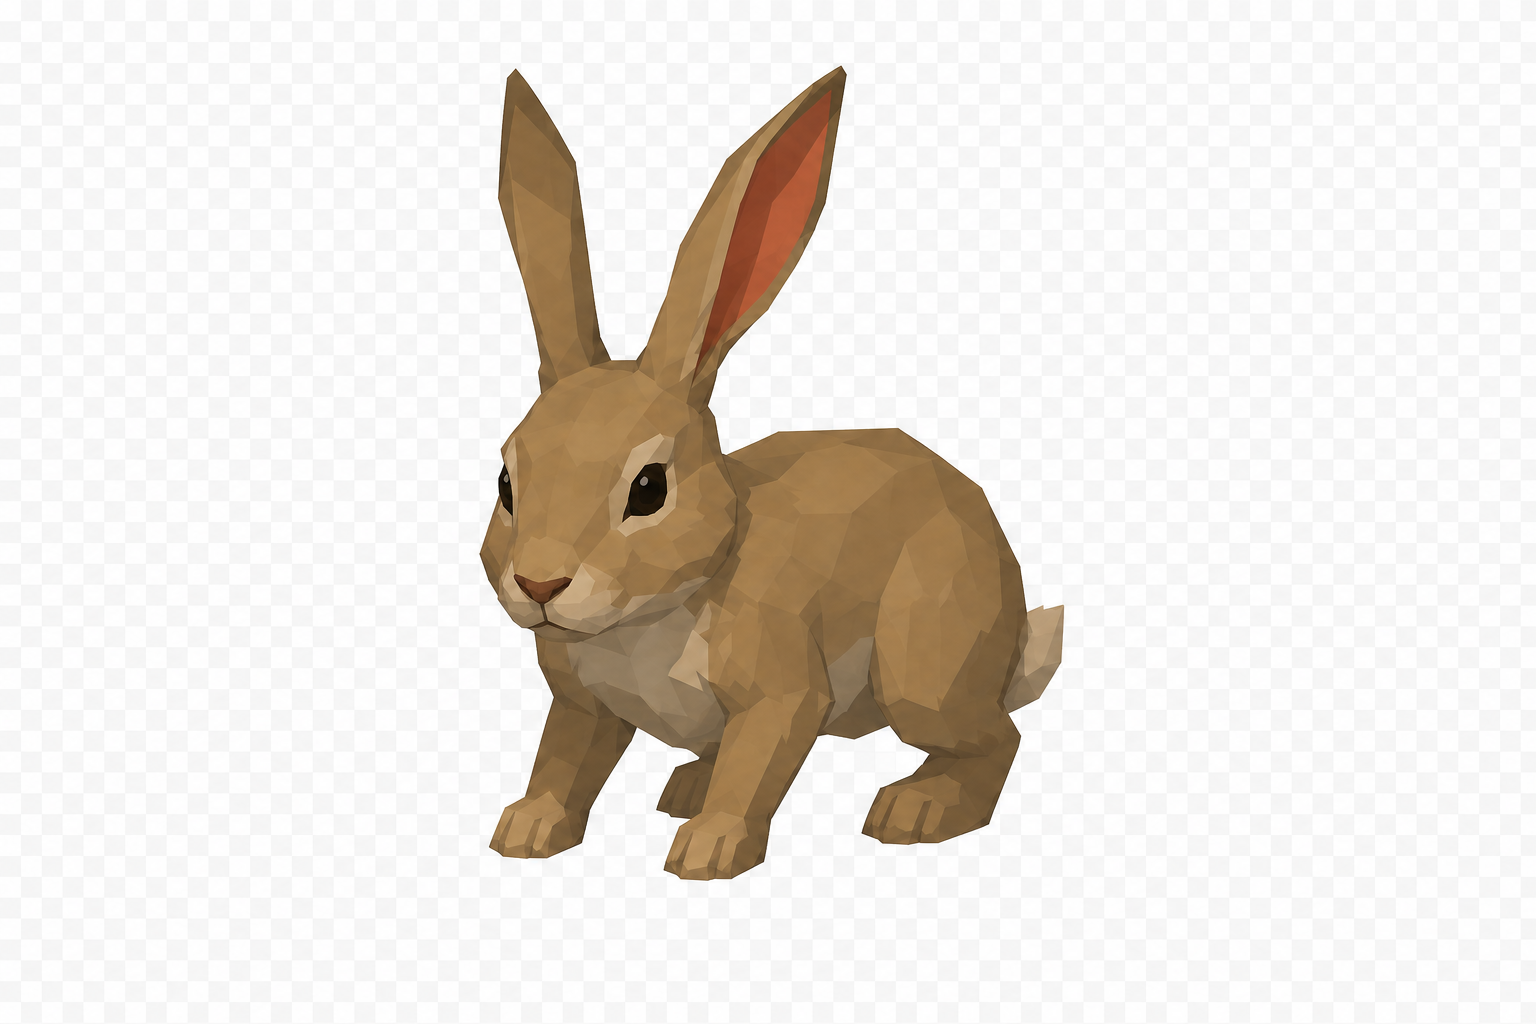
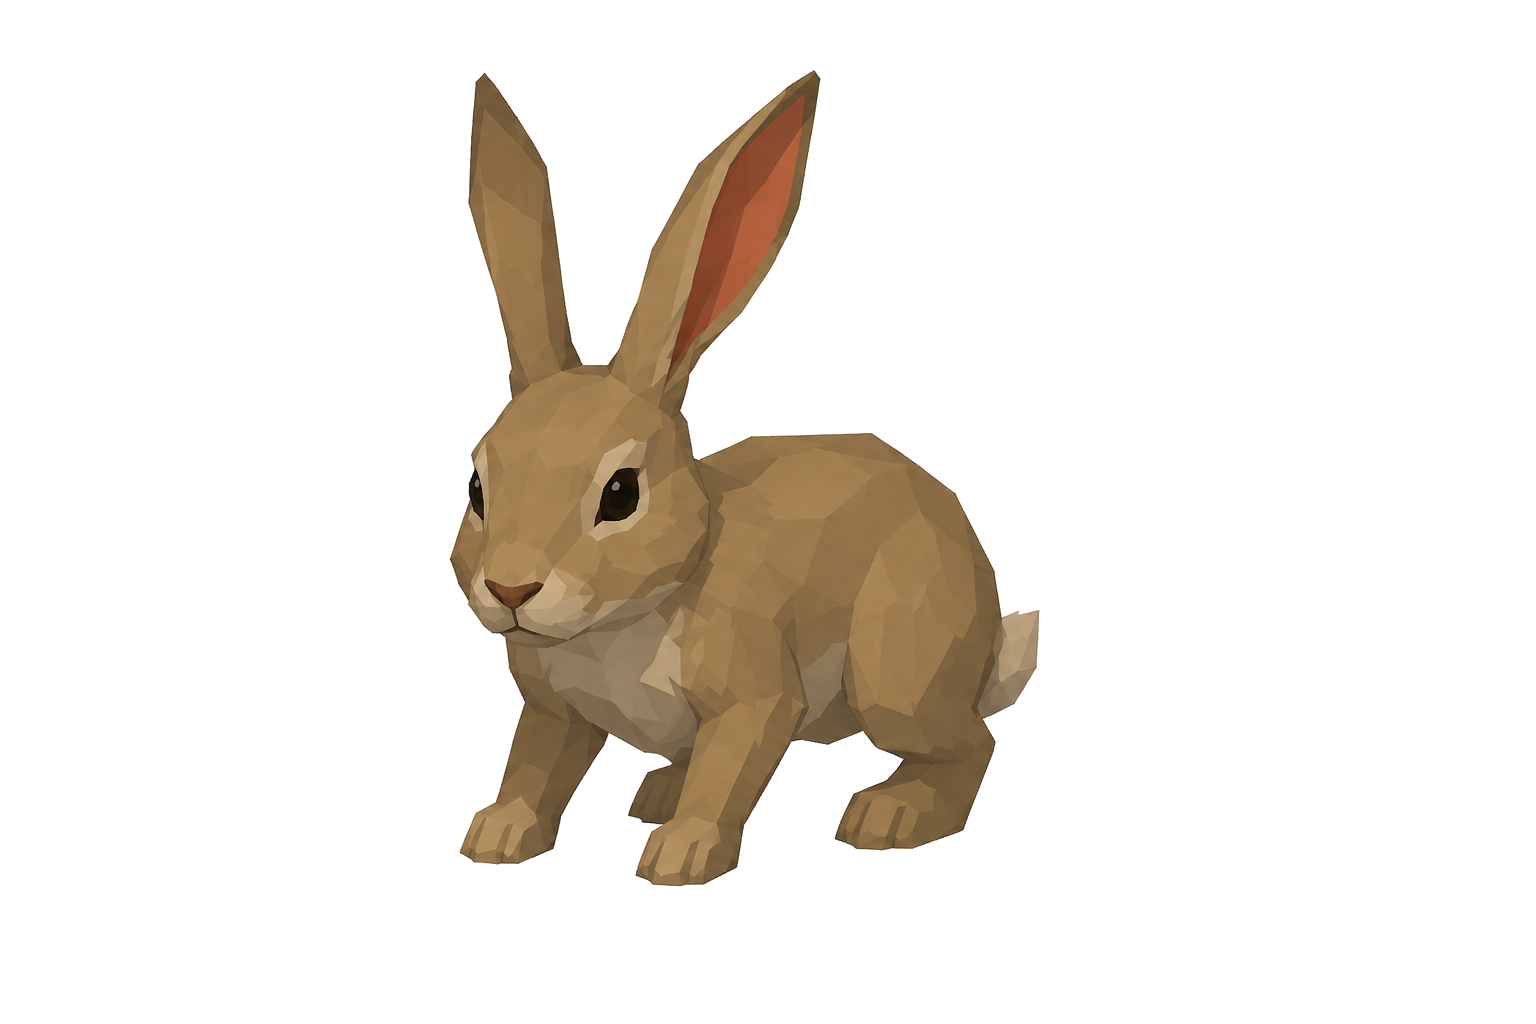
Remove rabbit image background

Changed region(s): [[0.2812, 0.0625, 0.7188, 0.875]]

diff --git a/index.html b/index.html
@@ -15,7 +15,7 @@
   <link rel="stylesheet" href="styles/sidebar-v2.css" />
   <link rel="stylesheet" href="styles/sidebar-layout.css" />
   <link rel="stylesheet" href="styles/enhancement.css" />
-  <link rel="stylesheet" href="styles/dungeon.css?v=20260724-plains-rabbit-v1" />
+  <link rel="stylesheet" href="styles/dungeon.css?v=20260724-plains-rabbit-transparent-v1" />
   <link rel="stylesheet" href="styles/mobile.css?v=[phone redacted]-mobile-header-v5" />
 </head>
 <body>

diff --git a/styles/dungeon.css b/styles/dungeon.css
@@ -24,4 +24,4 @@
 @media(max-width:640px){.region-overview-card{align-items:flex-start;flex-direction:column;min-height:185px}.map-region-grid{grid-template-columns:1fr}.map-region-card{grid-template-columns:44px minmax(0,1fr) auto}.map-region-card>span{width:38px;height:38px}}
 .map-region-card.available{border-color:rgba(106,224,158,.58);background:linear-gradient(135deg,rgba(12,63,46,.96),rgba(10,34,39,.94));opacity:1}.map-region-card.available.selected{box-shadow:0 0 0 2px rgba(255,224,128,.18);border-color:#ffe080}.map-region-card button,.map-region-card .current-region{padding:7px 10px;border:1px solid rgba(159,234,190,.55);border-radius:8px;background:#176b4b;color:#fff;font:700 12px "Noto Sans TC",sans-serif;cursor:pointer}.map-region-card .current-region{background:rgba(111,80,25,.88);border-color:#ffe080;color:#fff0b0;cursor:default}
 .enemy-art.monster-placeholder-art{display:grid!important;place-items:center;width:92px!important;height:102px!important;border:2px dashed rgba(225,242,247,.54);border-radius:48% 48% 38% 38%;background:linear-gradient(145deg,rgba(102,137,148,.48),rgba(27,54,63,.75))!important;filter:drop-shadow(0 8px 6px rgba(0,0,0,.3))!important}.enemy-art.monster-placeholder-art::before{content:"圖片\\A待補";white-space:pre;color:#d8e7eb;font-size:12px;font-weight:900;line-height:1.45;text-align:center}.enemy-unit.rare .enemy-art.monster-placeholder-art{border-color:#f5cd64;background:linear-gradient(145deg,rgba(149,109,38,.68),rgba(54,41,28,.82))!important;box-shadow:0 0 18px rgba(255,207,83,.45)}.enemy-unit.rare small{color:#ffe28b!important;font-weight:900}
-.enemy-art.plains-rabbit-art{display:block;width:112px!important;height:122px!important;background:url('../assets/plains-rabbit.png') center/contain no-repeat;filter:drop-shadow(0 8px 6px rgba(0,0,0,.32))}
+.enemy-art.plains-rabbit-art{display:block;width:112px!important;height:122px!important;background:url('../assets/plains-rabbit.png?v=20260724-transparent-v1') center/contain no-repeat;filter:drop-shadow(0 8px 6px rgba(0,0,0,.32))}